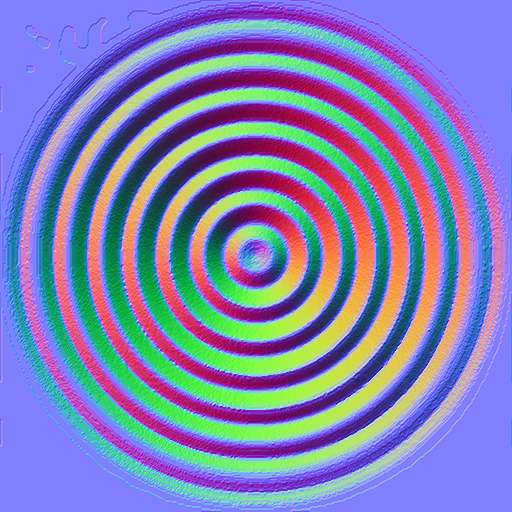
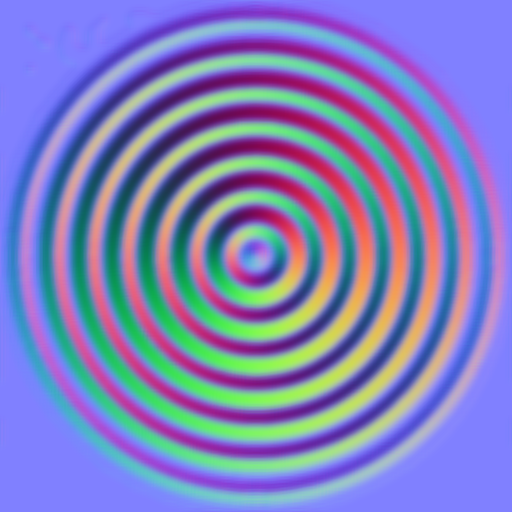
Bump mapping works properly

diff --git a/Samples/GameAppTestComponent.cs b/Samples/GameAppTestComponent.cs
@@ -36,18 +36,18 @@ public class GameAppTestComponent(IRenderer renderer, IContentManager contentMan
 
     private readonly PointLight[] _lights = new PointLight[2];
     private readonly SpotLight[] _spotLights = new SpotLight[1];
-    private readonly DirectionalLight[] _directionalLights = new DirectionalLight[2];
+    private readonly DirectionalLight[] _directionalLights = new DirectionalLight[1];
     
     
     private float _lighting;
     
     public void Draw()
     {
-        _directionalLights[0] = new DirectionalLight( Vector3.Normalize(new Vector3(-1, 1, 1)), RgbaColor.LightYellow, 1f);
-        _directionalLights[1] = new DirectionalLight( Vector3.Normalize(new Vector3(1, -1, 1)), RgbaColor.Navy, 1f);
+        _directionalLights[0] = new DirectionalLight( Vector3.Normalize(new Vector3(-1, 1, 0.8f)), RgbaColor.White, 2f);
+        //_directionalLights[0] = new DirectionalLight( Vector3.Normalize(new Vector3(0, -1, 1f)), RgbaColor.Navy, 0.2f);
         
-        _lights[0] = new PointLight(new Vector3(renderer.TargetSize.ToVector() / 2f - new Vector2(200, 0), -512f), 512, RgbaColor.Green, 1f);
-        _lights[1] = new PointLight(new Vector3(renderer.TargetSize.ToVector() / 2f + Vector2.Transform(new Vector2(256), Matrix3x2.CreateRotation(-timer.RunTime * 2)), -1024), 1024, RgbaColor.Yellow, 1);
+        _lights[0] = new PointLight(new Vector3(renderer.TargetSize.ToVector() / 2f - new Vector2(200, 0), -512f), 512, RgbaColor.DarkViolet, 1f);
+        _lights[1] = new PointLight(new Vector3(renderer.TargetSize.ToVector() / 2f + Vector2.Transform(new Vector2(256), Matrix3x2.CreateRotation(-timer.RunTime * 2)), -1024), 1024, RgbaColor.OrangeRed, 1);
         
         _spotLights[0] = new SpotLight(new Vector3(renderer.TargetSize.ToVector() / 2f - new Vector2(0,  _sampleTexture.Resource.Size.Height / 2f), -1000),
             Vector2.Normalize(new Vector2(0, 1)), 30, 15,  1000,  RgbaColor.Red, 1);
@@ -55,11 +55,11 @@ public class GameAppTestComponent(IRenderer renderer, IContentManager contentMan
         renderer.StateManager.Reset();
 
         renderer.LightingManager.EnableLighting(true);
-        renderer.LightingManager.SetAmbientLight(RgbaColor.Black);
-        renderer.LightingManager.SetResolution(0);
+        renderer.LightingManager.SetAmbientLight(RgbaColor.Navy * 0.2f);
+        renderer.LightingManager.SetResolution(8);
         renderer.LightingManager.SetDirectionalLights(_directionalLights);
         renderer.LightingManager.SetPointLights(_lights);
-        //renderer.LightingManager.SetSpotLights(_spotLights);
+        renderer.LightingManager.SetSpotLights(_spotLights);
         renderer.LightingManager.SetCellShades(true, 0);
 
         renderer.StateManager.SetTextureFilter(TextureFilter.Point);
